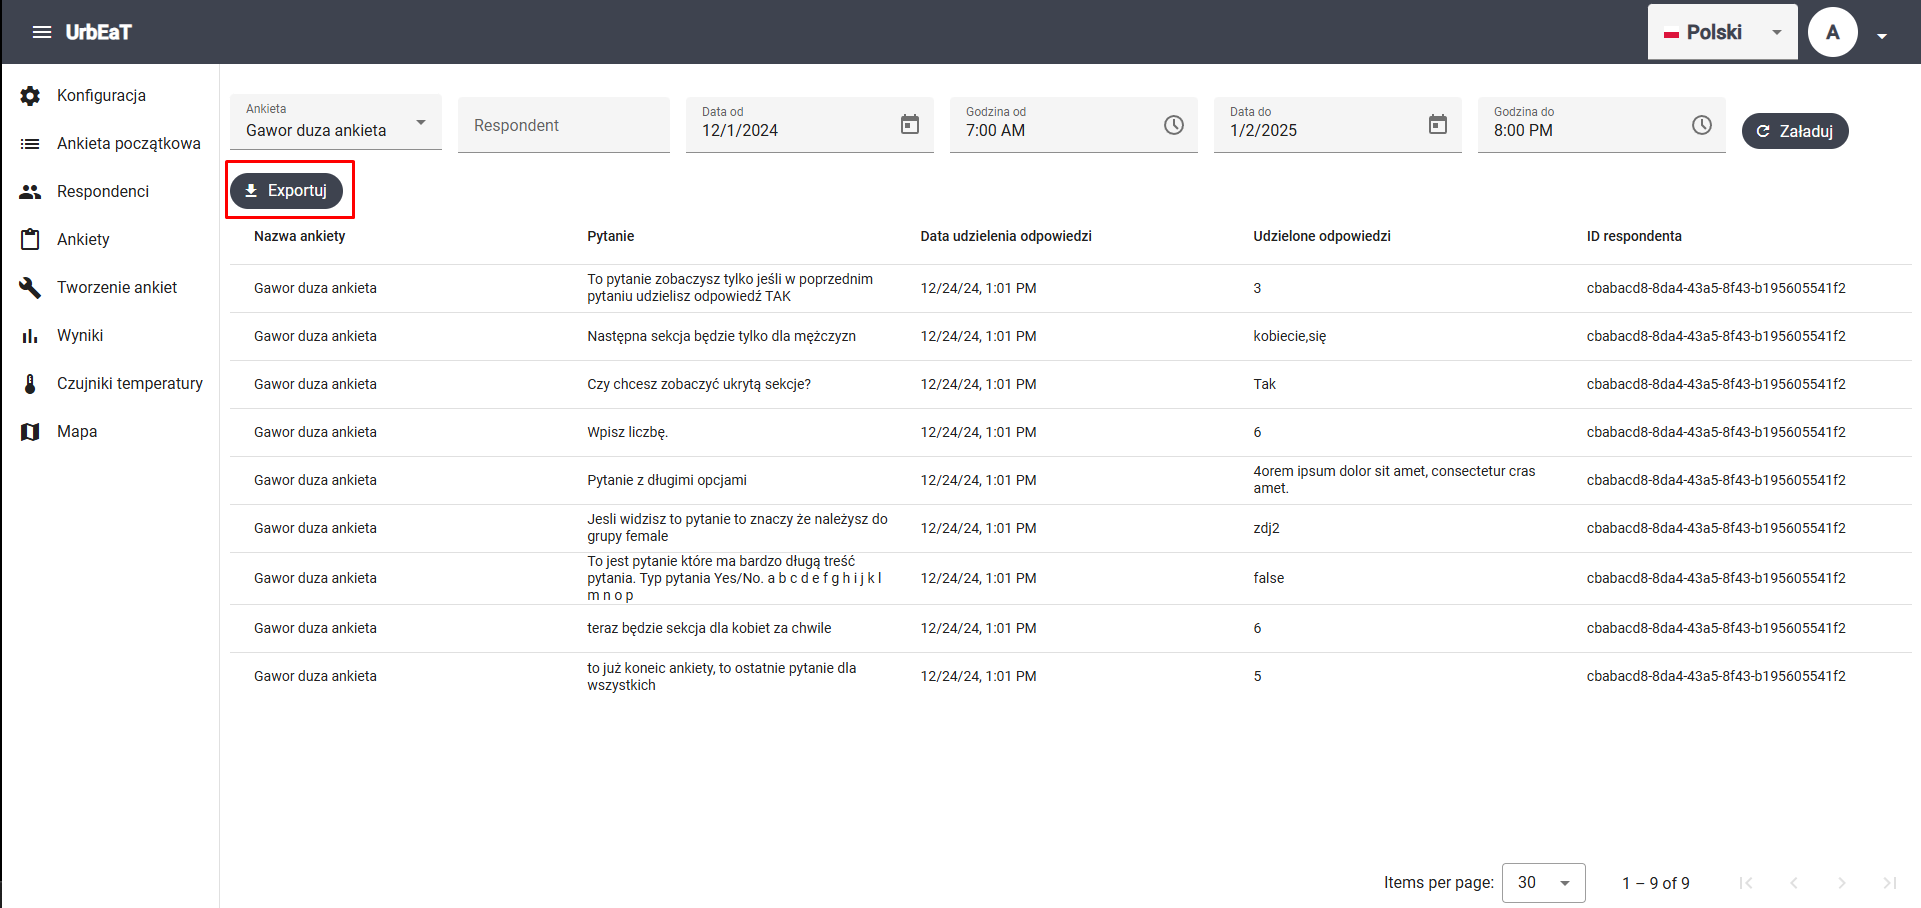
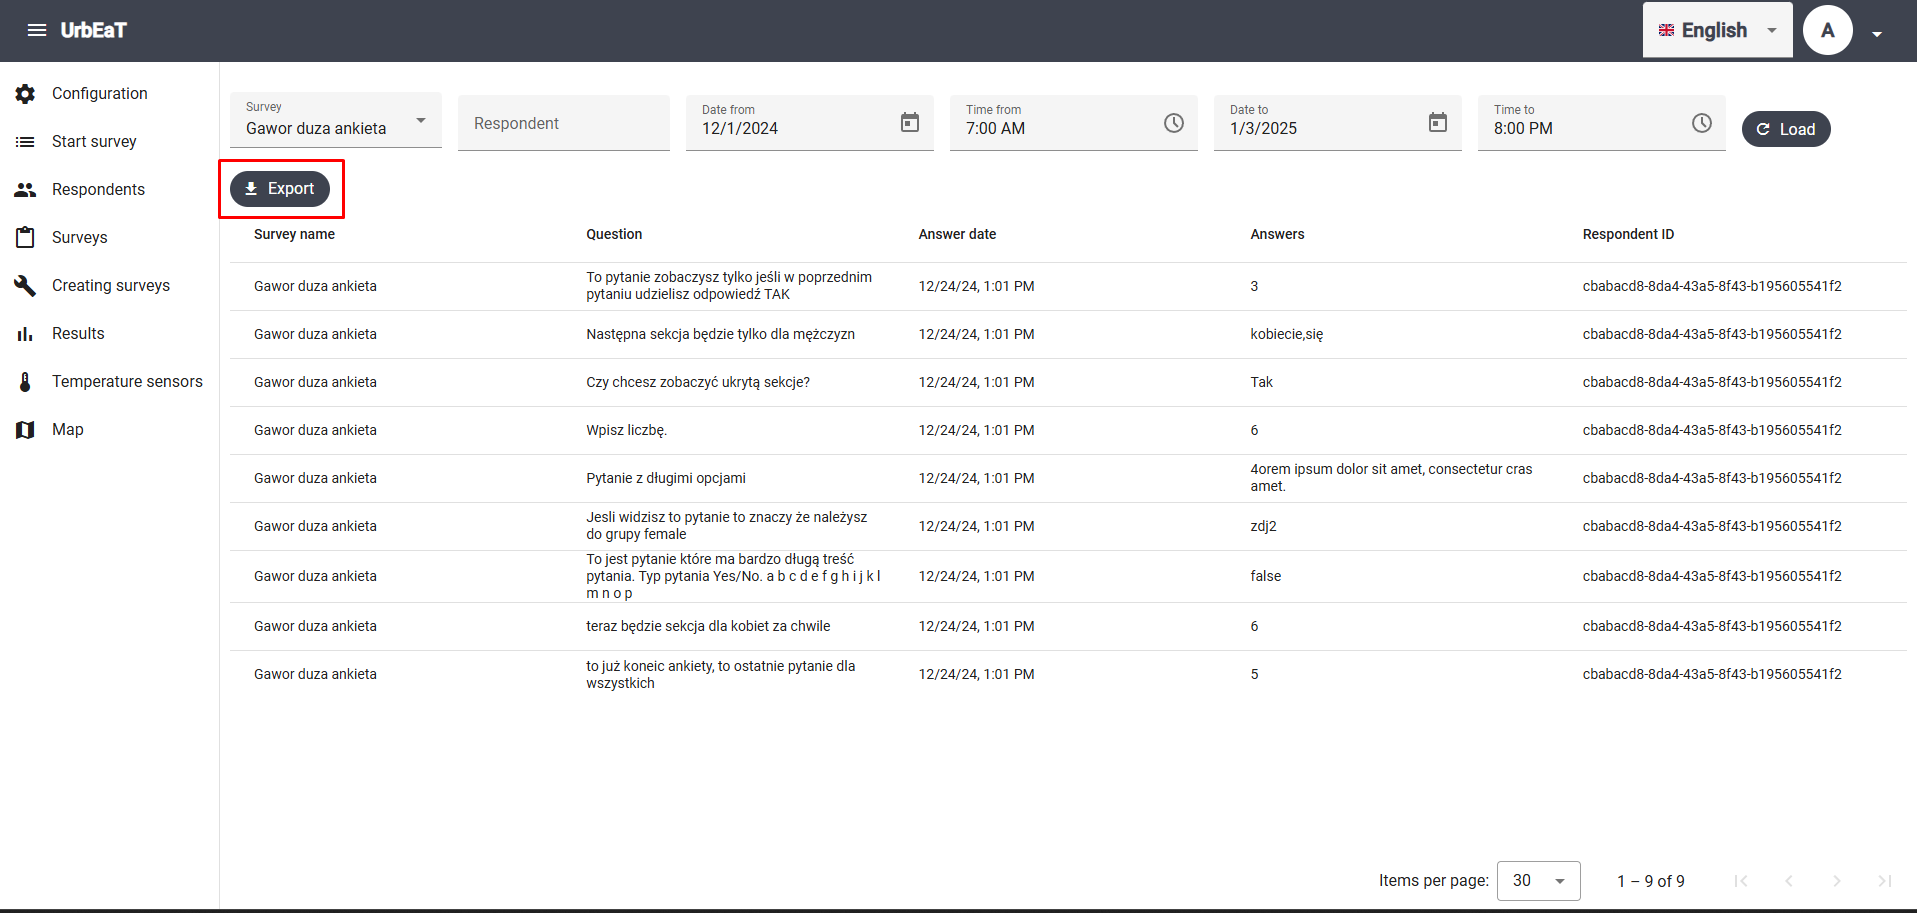
english results

diff --git a/docs/user_documentation/en/results/results.md b/docs/user_documentation/en/results/results.md
@@ -1,29 +1,30 @@
-# Wyniki
+# Results
 
-Aby przejść do modułu `Wyniki`, wybierz odpowiednią zakładkę w bocznym panelu po lewej stronie ekranu
+To access the `Results` module, select the appropriate tab in the sidebar on the left side of the screen.
 
 ![alt text](imgs/turn_on.png)
 
-W tym module możesz przeglądać i eksportować odpowiedzi udzielane przez respondentów na ankiety.
+In this module, you can view and export responses provided by respondents to surveys.
 
-## Filtry 
+## Filters
 
-Możesz ustawić teraz następujące filtry:
+You can now set the following filters:
 
-- ankieta (**obowiązkowe**)
-- respondent
-- data i godzina od
-- data i godzina do
+- Survey (**required**)
+- Respondent
+- Date and time from
+- Date and time to
 
-Po wciśnięciu przycisku `Załaduj`, zostaną wczytane wyniki
+After clicking the `Load` button, the results will be loaded.
 
-## Eksport wyników
+## Exporting Results
 
-Po wczytaniu danych możesz je eksportować do pliku `.csv` za pomocą przycisku `Eksportuj`
+After loading the data, you can export it to a `.csv` file using the `Export` button.
 
 ![alt text](imgs/export.png)
 
-Przykładowy plik z wynikami:
+Sample file with results:
+
 
 ```csv
 surveyName,question,responseDate,answers,respondentId
